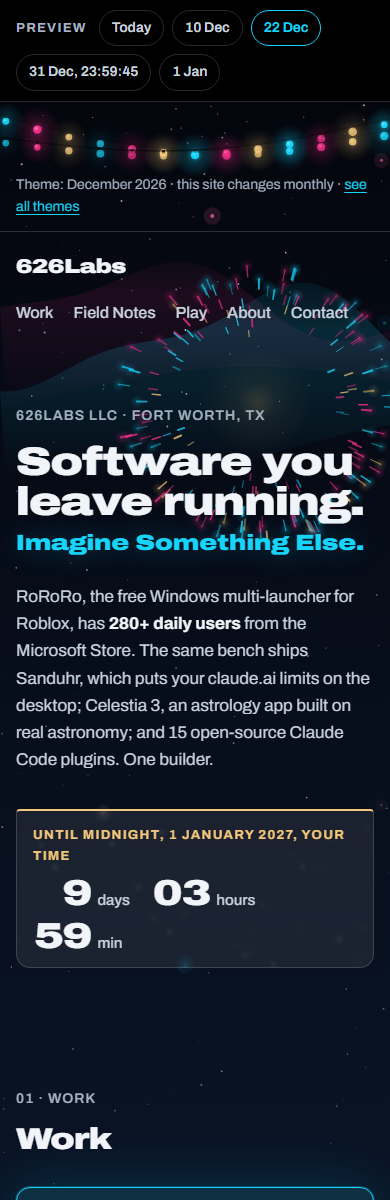
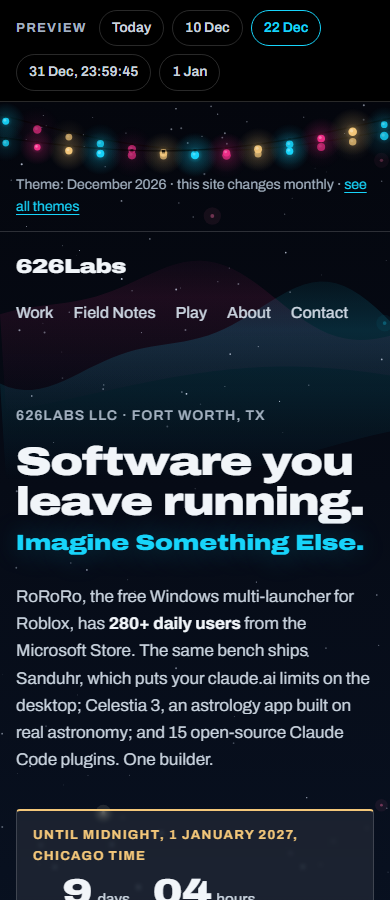
docs(design): countdown names the visitor's zone city
City from the IANA zone ID, then the long zone name, then "your time".
Retired IDs (Calcutta, Saigon, Kiev...) map to current names.

diff --git a/Design/explorations/2026-11-07-december-bakeoff/sheet-solstice-countdown.html b/Design/explorations/2026-11-07-december-bakeoff/sheet-solstice-countdown.html
@@ -293,6 +293,21 @@ footer em{font-style:normal;color:var(--cyan);font-weight:700}
     countdown:'The solstice turned on <b>21 December</b>. Now the year counts down.',
     newyear:'The year turned at your midnight. Welcome to <b>2027</b>.'
   };
+  /* whose midnight: the zone's city, else its long name, else "your time".
+     Read locally from the browser; nothing leaves the page. */
+  var ZONE=(function(){
+    try{
+      var id=Intl.DateTimeFormat().resolvedOptions().timeZone||'';
+      var city=id.indexOf('/')>0&&!/^Etc\//.test(id)?id.split('/').pop().replace(/_/g,' '):'';
+      /* browsers still report some zones by their retired IDs */
+      var RENAMED={'Calcutta':'Kolkata','Saigon':'Ho Chi Minh City','Ho Chi Minh':'Ho Chi Minh City','Kiev':'Kyiv','Rangoon':'Yangon','Katmandu':'Kathmandu','Godthab':'Nuuk','Ulan Bator':'Ulaanbaatar','Thimbu':'Thimphu','Dacca':'Dhaka','Faeroe':'Faroe'};
+      city=RENAMED[city]||city;
+      if(city&&!/^GMT|^UTC/i.test(city))return city+' time';
+      var part=new Intl.DateTimeFormat('en-US',{timeZoneName:'long'}).formatToParts(new Date()).filter(function(x){return x.type==='timeZoneName'})[0];
+      if(part&&!/^(GMT|UTC)/.test(part.value))return part.value;
+    }catch(e){}
+    return 'your time';
+  })();
   function pad(n){return n<10?'0'+n:''+n}
   function unit(v,t){return '<span class="u"><span class="n">'+v+'</span><span class="t">'+t+'</span></span>'}
   var phase=null;
@@ -309,10 +324,10 @@ footer em{font-style:normal;color:var(--cyan);font-weight:700}
       var s=Math.max(0,Math.floor((END-t)/1000));
       var d=Math.floor(s/86400),h=Math.floor(s%86400/3600),m=Math.floor(s%3600/60),sec=s%60;
       if(d>0){
-        lab.textContent='Until midnight, 1 January 2027, your time';
+        lab.textContent='Until midnight, 1 January 2027, '+ZONE;
         num.innerHTML=unit(d,d===1?'day':'days')+unit(pad(h),'hours')+unit(pad(m),'min');
       }else{
-        lab.textContent='The last day of 2026, your time';
+        lab.textContent='The last day of 2026, '+ZONE;
         num.innerHTML=unit(pad(h),'hours')+unit(pad(m),'min')+unit(pad(sec),'sec');
       }
     }else if(p==='newyear'){
